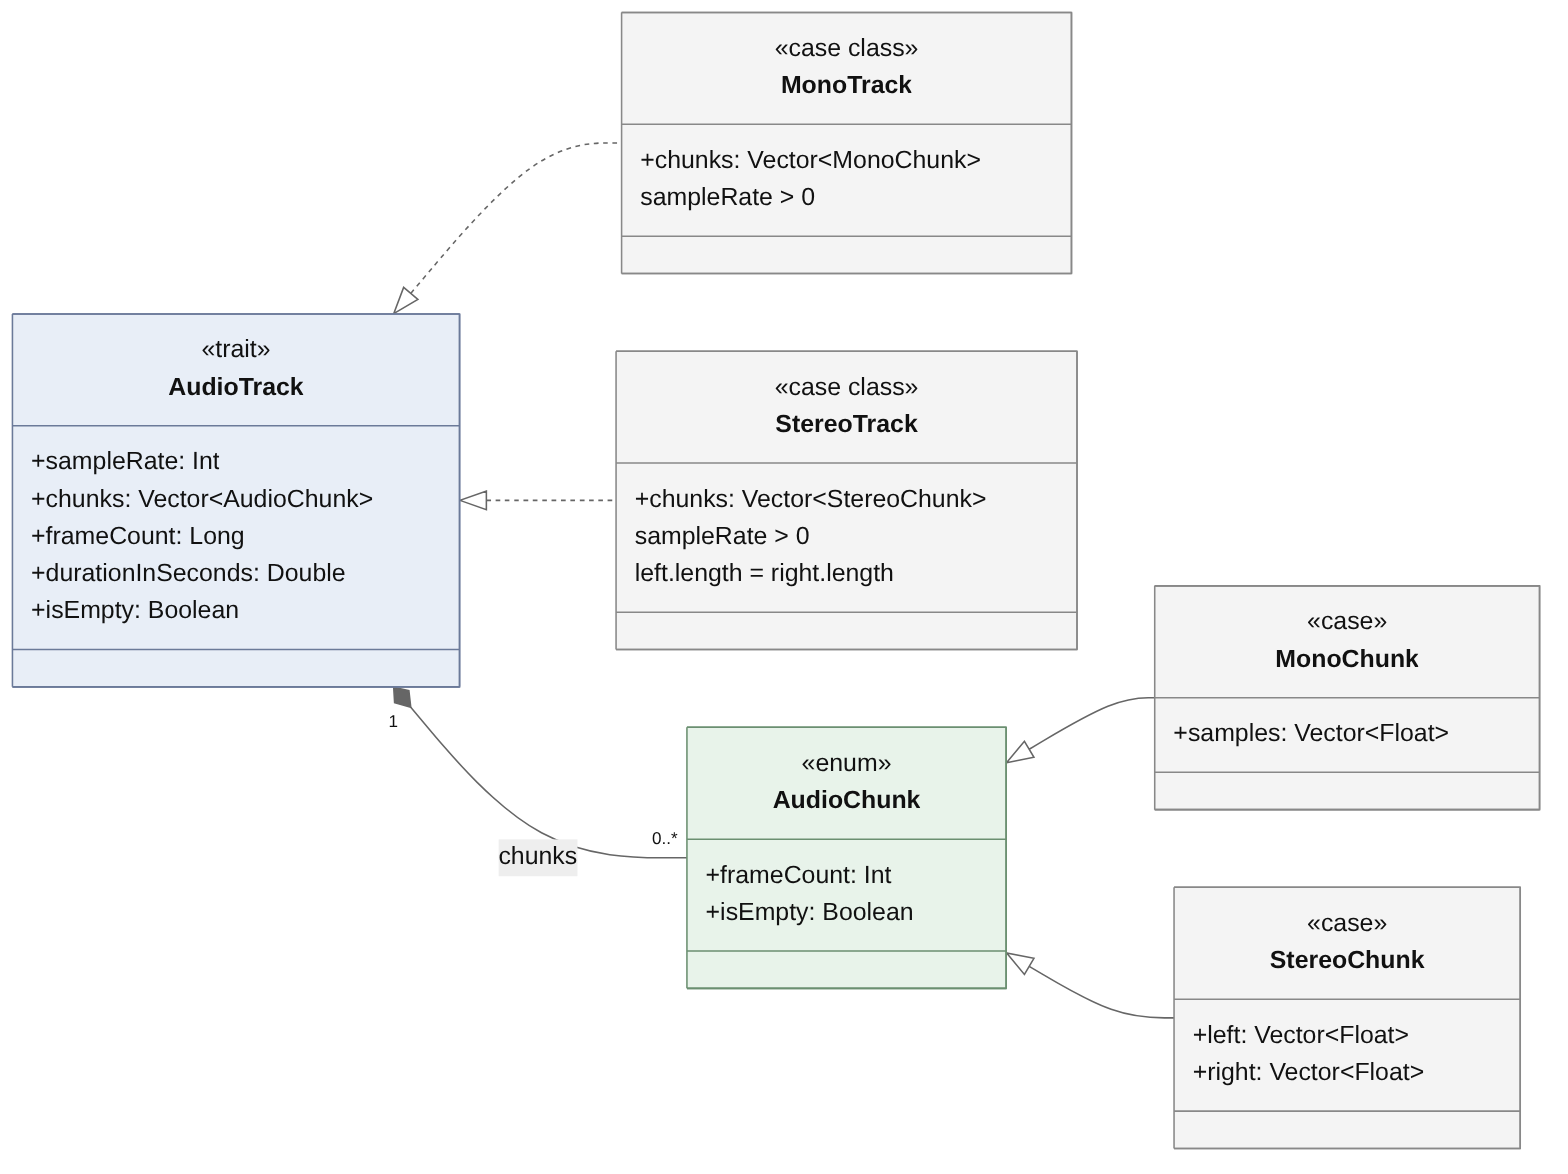
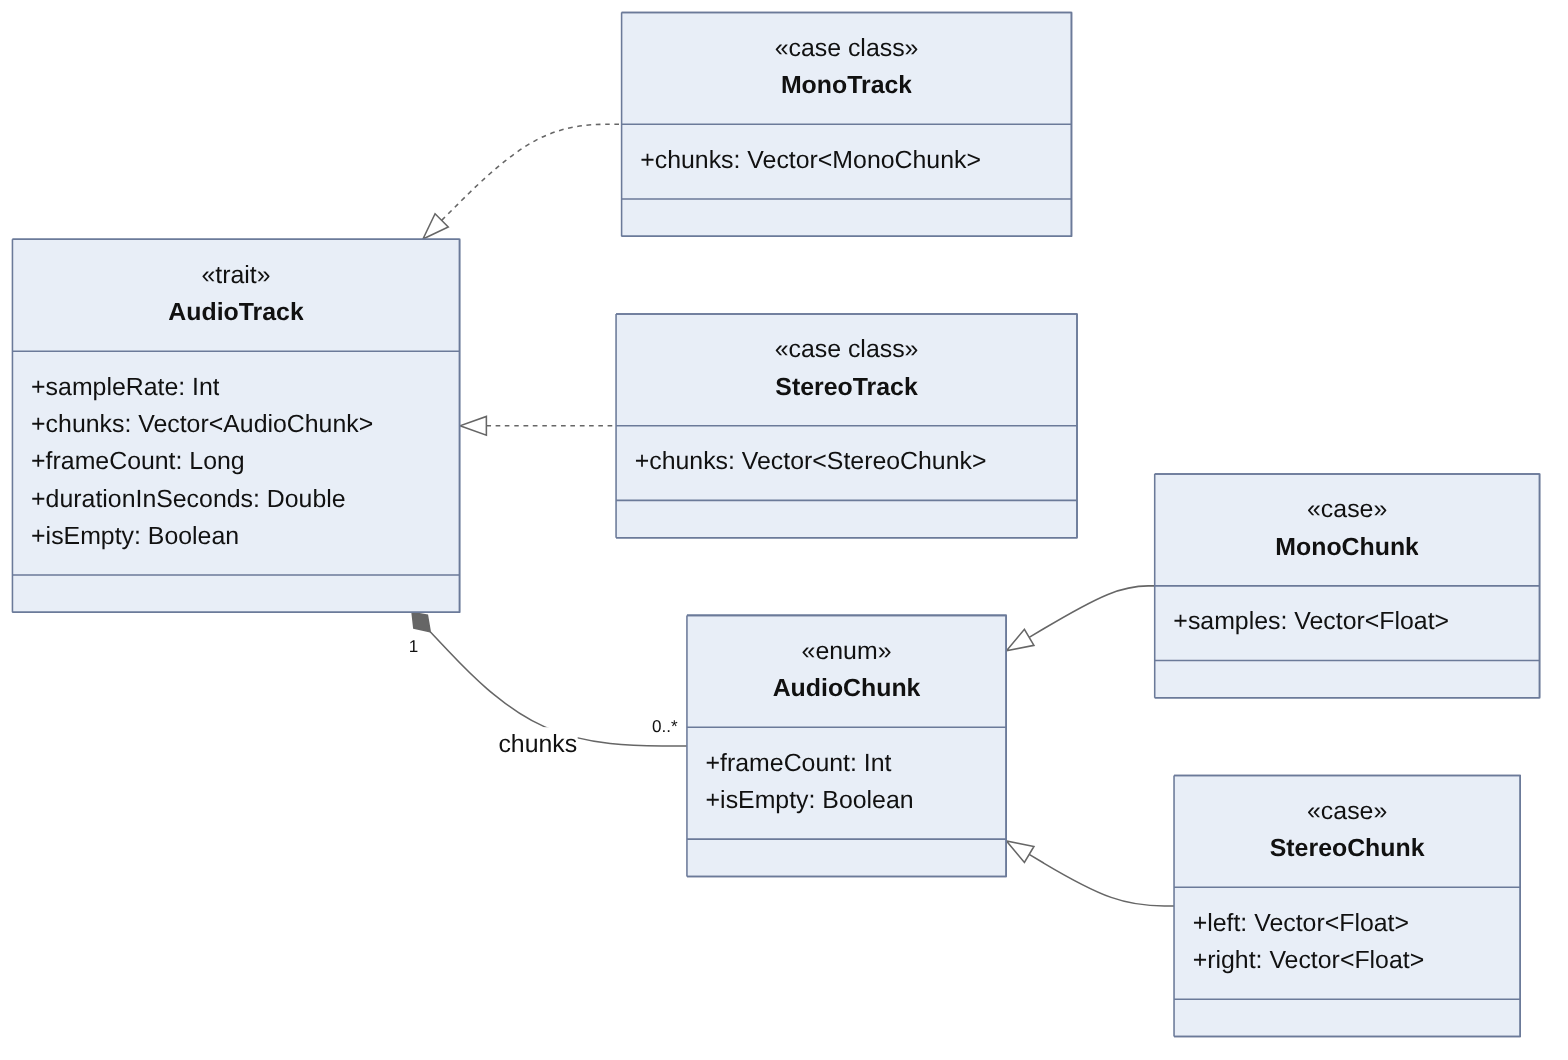
docs: improve domain explanation

diff --git a/doc/05-detailed-design.md b/doc/05-detailed-design.md
@@ -1,10 +1,5 @@
 # Design di Dettaglio
 
-Due scelte di fondo valgono per tutti i componenti:
-
-- **Immutabilità.** Tracce, chunk, stato ed effetti sono valori immutabili; ogni trasformazione produce un nuovo valore.
-- **Errori come valori.** Le operazioni che possono fallire restituiscono un `Either` il cui errore è un'enumerazione (`AudioError`, `AudioLoadError`, `AudioSaveError`). Le eccezioni di Java Sound e del file system sono intercettate ai bordi e trasformate in errori. L'unica eccezione lanciata dal modello è quella delle precondizioni (`require`) nella costruzione delle tracce.
-
 ## Organizzazione dei package
 
 All'interno del package radice `scalasound`, il codice si articola nella seguente struttura:
@@ -17,7 +12,7 @@ All'interno del package radice `scalasound`, il codice si articola nella seguent
   - `model.processing`: gli effetti, i processori audio e i relativi errori.
 - **`controller`**: i tre controller di riproduzione, importazione/esportazione ed effetti.
 - **`view`**:
-  - `view.panels`: i pannelli grafici (riquadro della traccia e pannello degli effetti) con la relativa logica di presentazione e il collegamento ai controller.
+  - `view.panels`: i pannelli grafici (riquadro della traccia, pannello degli effetti e pannello di importazione ed esportazione), ciascuno con la relativa logica di presentazione e il collegamento ai controller.
   - `ScalaFxApp` e `AppDependencies`: costruzione della finestra principale e dipendenze di cui la view ha bisogno.
 - `AppSetup` (composizione dei componenti) e `Main` (avvio dell'applicazione).
 
@@ -25,23 +20,29 @@ All'interno del package radice `scalasound`, il codice si articola nella seguent
 
 ### Dominio
 
-Il dominio è stato progettato dall'intero gruppo. L'audio è rappresentato da due gerarchie di tipi algebrici, che rendono impossibili gli stati non validi.
+Il dominio è stato progettato dall'intero gruppo ed è evoluto nel tempo. L'audio è rappresentato da due gerarchie, che rendono impossibili gli stati non validi. I tipi sono definiti nel file `AudioADT` (package `model.domain`).
 
 - `AudioChunk` è un'enumerazione con due casi: `MonoChunk`, con un solo vettore di campioni, e `StereoChunk`, con i canali sinistro e destro separati. È l'unità alla base dell'elaborazione, della riproduzione e delle operazioni di importazione ed esportazione.
-- `AudioTrack` è il trait che rappresenta un brano: espone la frequenza di campionamento e il vettore di chunk che lo compone. Ha due implementazioni, `MonoTrack` (composta da chunk mono) e `StereoTrack` (composta da chunk stereo), che verificano le precondizioni alla costruzione con `require`.
+- `AudioTrack` è il trait che rappresenta una traccia: espone la frequenza di campionamento e la sequenza ordinata di chunk che lo compone. Ha due implementazioni: `MonoTrack`, composta solo da `MonoChunk`, e `StereoTrack`, composta solo da `StereoChunk` in cui i canali sinistro e destro hanno la stessa lunghezza. In entrambe la frequenza di campionamento deve essere positiva.
+
+Sia `AudioChunk` sia `AudioTrack` espongono `frameCount`, il numero di frame contenuti. Un frame raccoglie i campioni di tutti i canali relativi allo stesso istante.
+
+\newpage
 
 ![Gerarchia di tracce e chunk](doc/img/05-detailed-design/dominio.png){ width=80% }
 
 Scelte di design:
 
-- la traccia è divisa in chunk di dimensione fissa (1024 frame quando importata), così l'audio viene elaborato e riprodotto un blocco alla volta, solo quando necessario;
-- i campioni sono `Float` normalizzati in [-1, 1): tutti gli effetti lavorano su un'unica scala, indipendente dalla profondità di bit del file di provenienza, e il calcolo in virgola mobile non ha i problemi di overflow degli interi a 16 bit (un guadagno potrebbe superare il valore massimo). Il `Float` inoltre occupa la metà del `Double`;
-- `chunks` e i campioni (`samples`, `left`, `right`) sono contenuti in `Vector`, la sequenza immutabile di Scala con accesso per indice efficiente, che facilita l'operazione di seek. In questo modo portare la testina in un punto qualsiasi della traccia non richiede di percorrere i chunk precedenti, come invece accadrebbe con una `List`.
+- la traccia composta da una sequenza di chunk di dimensione fissa (1024 frame quando importata). Questo permette di elaborare e riprodurre il flusso audio un blocco alla volta, solo quando necessario;
+- i campioni sono `Float` normalizzati in [-1, 1): tutti gli effetti lavorano su un'unica scala, indipendentemente dalla risoluzione in bit del file di provenienza, e il calcolo in virgola mobile non ha  problemi di overflow con gli interi a 16 bit (un guadagno potrebbe superare il valore massimo). Il `Float` inoltre occupa metà della memoria rispetto al `Double`;
+- `chunks` e i campioni (`samples`, `left`, `right`) sono contenuti in `Vector`, la sequenza immutabile di Scala con accesso per indice efficiente, che facilita l'operazione di seek. In questo modo spostare lo stato di avanzamento in un punto qualsiasi della traccia non richiede di percorrere i chunk precedenti, come invece accadrebbe con una `List`.
 
 Casi limite:
 
-- una traccia stereo i cui canali hanno lunghezze diverse, o una frequenza non positiva, vengono rifiutate alla costruzione;
+- una traccia con frequenza di campionamento non positiva, o una traccia stereo con canali di lunghezza diversa, viene rifiutata alla costruzione;
 - l'ultimo chunk di una traccia può contenere meno frame degli altri.
+
+\newpage
 
 ### Stato e comandi
 
@@ -51,12 +52,12 @@ Lo stato globale è contenuto nella `case class` immutabile `AppState`, composta
 |----------------|------------------------|--------------------------------------------|
 | `playbackState` | `PlaybackState` | fase della riproduzione: `Stopped`, `Playing` o `Paused` |
 | `track` | `Option[AudioTrack]` | traccia caricata, se presente |
-| `chunkIndex` | `Int` | posizione della testina, come indice del chunk corrente |
+| `chunkIndex` | `Int` | stato di avanzamento della riproduzione, come indice del chunk corrente |
 | `effects` | `List[AudioEffect]` | effetti attivi, al più uno per tipo |
 | `importState` | `ImportState` | ciclo dell'importazione: `Idle`, `Importing`, `Imported(track)` o `Failed(error)` |
 | `exportState` | `ExportState` | ciclo dell'esportazione: `Idle`, `Exporting`, `Exported` o `Failed(error)` |
 
-Lo stato iniziale non ha traccia né effetti, ha la riproduzione `Stopped`, la testina a zero e importazione ed esportazione in stato `Idle`. Ogni modifica è espressa da un `Command` (`Play`, `Pause`, `Stop`, `NextChunk`, `SeekToIndex`, `AddEffect`, `RemoveAll`, `UpdateImport`, `UpdateExport`) e applicata dalla funzione `AppState.handle`, che restituisce un nuovo `AppState` senza alterare il precedente.
+Lo stato iniziale non ha traccia né effetti, ha la riproduzione `Stopped`, lo stato di avanzamento a zero e importazione ed esportazione in stato `Idle`. Ogni modifica è espressa da un `Command` (`Play`, `Pause`, `Stop`, `NextChunk`, `SeekToIndex`, `AddEffect`, `RemoveAll`, `UpdateImport`, `UpdateExport`) e applicata dalla funzione `AppState.handle`, che restituisce un nuovo `AppState` senza alterare il precedente.
 
 ![Stati della riproduzione audio](doc/img/05-detailed-design/stati-riproduzione.png){ width=70% }
 
@@ -74,7 +75,7 @@ Importazione ed esportazione seguono lo stesso ciclo, rappresentato da semplici 
 
 ![Stati di importazione ed esportazione](doc/img/05-detailed-design/stati-import-export.png){ width=95% }
 
-Scelte di design: 
+Scelte di design:
 
 - poiché `handle` non ha effetti collaterali, un comando non applicabile restituisce lo stato invariato invece di un errore.
 
@@ -148,11 +149,11 @@ Casi limite:
 - un chunk o una traccia vuoti sono rifiutati con un errore;
 - un effetto sconosciuto (non presente in `AudioEffectType`) è accettato e applicato per ultimo;
 - se un chunk elaborato diventa stereo, l'intera traccia lo diventa;
-- l'eco è l'unico componente con stato mutabile: tiene un buffer circolare per canale, di dimensione pari al ritardo in campioni. Sostituire l'effetto (per esempio muovendo il cursore) crea un nuovo buffer, quindi la coda dell'eco precedente si interrompe.
+- l'eco è l'unico effetto con stato mutabile: tiene un buffer circolare per canale, di dimensione pari al ritardo in campioni. Sostituire l'effetto (per esempio muovendo il cursore) crea un nuovo buffer, quindi la coda dell'eco precedente si interrompe.
 
 ### Motore di riproduzione
 
-`AudioPlayer` non ha uno stato proprio: osserva lo store e agisce di conseguenza. Riceve alla creazione, un `AudioProcessor` che applica gli effetti a ogni chunk e un `AudioOutput` che lo porta in uscita, e conosce solo i loro contratti. Perciò `SimpleAudioProcessor` e `AudioProcessorWithRules`, cosi come `AudioOutput.console` e `AudioOutput.speakers`, sono intercambiabili senza modificare il player. Lo store gli viene fornito quando viene avviato, con `run(store)`.
+`AudioPlayer` non ha uno stato proprio: osserva lo store e agisce di conseguenza. Riceve alla creazione un `AudioProcessor` che applica gli effetti a ogni chunk e un `AudioOutput` che lo porta in uscita, e conosce solo i loro contratti. Perciò `SimpleAudioProcessor` e `AudioProcessorWithRules`, così come `AudioOutput.console` e `AudioOutput.speakers`, sono intercambiabili senza modificare il player. Lo store gli viene fornito quando viene avviato, con `run(store)`.
 
 ![Dipendenze di AudioPlayer](doc/img/05-detailed-design/dipendenze-player.png){ width=95% }
 
@@ -162,18 +163,20 @@ Casi limite:
 
 La riproduzione procede un chunk alla volta: il player non elabora la traccia in anticipo, ma prepara ogni chunk subito prima di mandarlo in uscita. Per questo gli effetti e la posizione possono cambiare mentre la traccia suona, e il risultato si sente dal chunk successivo. Il vincolo è che l'elaborazione di un chunk resti più breve della sua durata (circa 23 ms per 1024 frame a 44100 Hz), altrimenti l'audio si interrompe; la risposta a una modifica non è comunque istantanea, perché una piccola quantità di audio è già stata consegnata all'uscita.
 
-`AudioOutput` ha un solo metodo, `write(chunk, sampleRate)`. `AudioOutput.console` stampa i metadati del chunk in console, mentre `AudioOutput.speakers` produce il suono attraverso la libreria Java Sound.
+`AudioOutput` ha un solo metodo, `write(chunk, sampleRate)`. `AudioOutput.console` stampa i metadati del chunk in console, mentre `AudioOutput.speakers` produce il suono attraverso la libreria Java Sound: converte i campioni in PCM a 16 bit little-endian e li scrive con `IO.blocking` su una linea audio con un buffer di circa 200 ms, che resta aperta finché non cambiano frequenza di campionamento o numero di canali. L'estensione `paced` aggiunge, dopo la scrittura, un'attesa pari alla durata del chunk, per dare il ritmo reale a un output che non lo impone, come la console.
 
 Scelte di design:
 
+- il player è modellato come un flusso (`Stream` di FS2) perché la riproduzione è una sequenza di chunk nel tempo: si descrive il ciclo "elabora, riproduci, avanza" invece di gestire a mano indici e attese. Il flusso dello stato notifica solo quando qualcosa cambia, quindi non servono controlli periodici, e con `changesBy` e `switchMap` ogni cambio di stato o di posizione interrompe il flusso in corso e ne fa partire uno nuovo;
 - `Pause`, `Stop` e `SeekToIndex` interrompono l'elaborazione del chunk in corso e fanno ripartire il ciclo dal nuovo stato;
 - il ritmo della riproduzione deriva da `AudioOutput.write`, che termina solo quando l'output può accettare il chunk, e non da un timer. Il player resta quindi poco avanti rispetto a quanto si sente.
 
 Casi limite:
 
-- se `AudioProcessor.apply` restituisce un `Left` con un `AudioError`, l'errore viene stampato in console e si riproduce il chunk originale, poichè un effetto malfunzionante non deve rendere silente riproduzione;
+- se `AudioProcessor.apply` restituisce un `Left` con un `AudioError`, l'errore viene stampato in console e si riproduce il chunk originale, poiché un effetto malfunzionante non deve rendere silente la riproduzione;
 - se l'output fallisce con un'eccezione, la riproduzione passa a `Stopped` e il player resta attivo, pronto a ripartire;
-- alla fine della traccia il player stesso invia `Stop`, che riporta `chunkIndex` a zero.
+- alla fine della traccia il player stesso invia `Stop`, che riporta `chunkIndex` a zero;
+- la linea audio di `AudioOutput.speakers` viene chiusa solo quando il formato cambia: alla chiusura dell'applicazione non è rilasciata esplicitamente.
 
 ### Lettura e scrittura dei file
 
@@ -187,8 +190,7 @@ Scelte di design:
 Casi limite:
 
 - la scrittura rifiuta `NaN` e infiniti, una frequenza di campionamento oltre il limite del formato e una traccia che supera la dimensione massima del file;
-- se manca l'estensione `.wav`, viene aggiunta; un file esistente è sovrascritto;
-- un file di un formato diverso da WAV PCM a 16 bit è rifiutato con un errore, senza modificare lo stato.
+- un file di un formato diverso da WAV PCM a 16 bit è rifiutato con un errore, senza sostituire la traccia corrente.
 
 ## Controller
 
@@ -196,18 +198,24 @@ I controller espongono alla view le operazioni dell'utente e le traducono in com
 
 - `PlaybackController` (play, pause, stop, seek) non contiene logica di stato: invia il comando corrispondente. Il seek converte i secondi nell'indice del chunk che contiene quel punto, riportando i valori fuori traccia al primo o all'ultimo chunk.
 - `EffectsController` invia `AddEffect` e `RemoveAll`.
-- `LoadSaveController` è l'unico che gestisce operazioni lente. `load` e `save` ritornano subito e lavorano in background sotto un `Supervisor`, con la lettura, oppure l'elaborazione seguita dalla scrittura, eseguite in `IO.blocking`. In esportazione il controller legge dallo stato la traccia e gli effetti attivi, ne ottiene la versione elaborata con l'`AudioProcessor` e la passa all'`AudioWriter`.
+- `LoadSaveController` è l'unico che gestisce operazioni lente. `load` e `save` restituiscono un `IO` che avvia l'operazione in background sotto un `Supervisor` e termina subito; la lettura, oppure l'elaborazione seguita dalla scrittura, è eseguita in `IO.blocking`. In esportazione il controller legge dallo stato la traccia e gli effetti attivi, ne ottiene la versione elaborata con l'`AudioProcessor` e la passa all'`AudioWriter`.
 
 ![Sequenza dell'importazione](doc/img/05-detailed-design/sequenza-importazione.png){ width=100% }
+
+L'esportazione segue lo stesso schema con tre differenze: legge dallo store la traccia e gli effetti attivi al momento della richiesta, fa elaborare la traccia dall'`AudioProcessor` prima di passarla all'`AudioWriter`, e non parte se un'importazione è in corso.
 
 Scelte di design per `LoadSaveController`:
 
 - un salvataggio lavora su una copia dell'`AppState` presa alla richiesta: il file contiene la traccia e gli effetti presenti in quel momento, anche se nel frattempo ne viene caricata un'altra o gli effetti cambiano;
 - se non ci sono effetti attivi l'elaborazione restituisce la traccia invariata, che viene scritta così com'è;
 - gli errori restituiti da reader, processore e writer e le eccezioni impreviste finiscono tutti in `Failed`, quindi la view riceve sempre un esito;
+- una richiesta di importazione o di esportazione è ignorata se un'operazione dello stesso tipo è già in corso, e un salvataggio è ignorato anche durante un'importazione; il controllo si basa su un `Ref` per ciascun tipo di operazione;
 - l'utente riporta lo stato a `Idle` con `acknowledgeImport` e `acknowledgeExport`, che hanno effetto solo se l'operazione è conclusa.
 
-Casi limite: un salvataggio senza traccia caricata produce `Failed(NoTrackLoaded)`.
+Casi limite:
+
+- un salvataggio senza traccia caricata produce `Failed(NoTrackLoaded)`;
+- se manca l'estensione `.wav`, viene aggiunta; un file esistente è sovrascritto.
 
 ## View
 
@@ -217,7 +225,7 @@ La view non modifica lo stato: ascolta gli stream dello store e invia richieste 
 |--------------------|--------------------------------|--------------------------|
 | Riproduzione | `TrackBox` | `TrackBoxLogic` |
 | Effetti | `EffectsPanelContainer` | `EffectsLogic` |
-| Importazione ed esportazione | `TitlePane`, `LoadSaveControls` | `LoadSaveObserver` |
+| Importazione ed esportazione | `TitlePane` | `LoadSaveLogic` |
 
 La finestra è un `BorderPane` a tre zone:
 
@@ -228,8 +236,19 @@ La finestra è un `BorderPane` a tre zone:
 Il comportamento di ogni pannello è nella sua logica:
 
 - `TrackBoxLogic` collega i pulsanti e la timeline ai controller e aggiorna posizione ed etichette in base allo stato;
-- `EffectsLogic` collega i cursori ai controller e invia l'effetto corrispondente;
-- `LoadSaveObserver` si iscrive agli stati di importazione ed esportazione e aggiorna i controlli (`LoadSaveControls`), compresi i messaggi d'errore per l'utente, definiti in un unico punto (`ErrorMessages`).
+- `EffectsLogic` collega i cursori ai controller, attraverso `EffectsControllerWrapper`, e invia l'effetto corrispondente;
+- `LoadSaveLogic` collega i pulsanti Import ed Export di `TitlePane` ai controller, con i selettori di file, e si iscrive agli stati di importazione ed esportazione: aggiorna l'etichetta e i pulsanti di `TitlePane` e mostra un avviso di riuscita o di errore, con i messaggi definiti in un unico punto (`ErrorMessages`); dopo l'avviso conferma l'esito al controller con `acknowledgeImport` o `acknowledgeExport`.
+
+Scelte di design:
+
+- `EffectsControllerWrapper` nasconde l'esecuzione dell'`IO` dei controller degli effetti (`unsafeRunAndForget`), così `EffectsLogic` chiama semplici metodi;
+- `LoadSaveLogic` riceve per iniezione le funzioni che eseguono gli aggiornamenti sul thread JavaFX (`runOnGUIThread`) e mostrano gli avvisi (`showAlert`): così la sua logica si può verificare senza avviare l'interfaccia;
+- i widget non conoscono i controller né lo store: tutto il collegamento è nelle classi di logica.
+
+Casi limite:
+
+- `Echo` e `Autopan` sono creati dalla view senza la frequenza di campionamento della traccia, quindi usano il valore predefinito delle factory (44100 Hz);
+- se l'utente annulla un selettore di file non viene inviata nessuna richiesta.
 
 ## Aspetti trasversali
 
@@ -247,21 +266,21 @@ I componenti si conoscono solo attraverso i contratti seguenti: chi li usa non d
 | `AppStateStore` | `current: IO[AppState]`; `dispatch(command: Command): IO[AppState]`; `changes: Stream[IO, AppState]`; `playbackChanges`, `trackChanges`, `importStateChanges`, `exportStateChanges` | i flussi derivati emettono solo quando la parte di stato cambia davvero |
 | `PlaybackController` | `play`, `pause`, `stop`: `IO[Unit]`; `seek(positionSeconds: Double): IO[Unit]` | il posizionamento è in secondi |
 | `EffectsController` | `addEffect(effect: AudioEffect): IO[Unit]`; `removeAll(): IO[Unit]` | |
-| `LoadSaveController` | `load(path: Path): Unit`; `save(path: Path): Unit`; `acknowledgeImport: Unit`; `acknowledgeExport: Unit` | lavorano in background e ritornano subito |
+| `LoadSaveController` | `load(path: Path)`, `save(path: Path)`, `acknowledgeImport`, `acknowledgeExport`: `IO[Unit]` | `load` e `save` avviano l'operazione in background e terminano subito |
 
 ### Concorrenza e thread
 
 L'applicazione usa tre contesti di esecuzione, che comunicano soltanto attraverso `AppStateStore`:
 
-- il **thread JavaFX** esegue la view: i gestori dei controlli (`TrackBoxLogic`, `EffectsLogic`) partono da qui, e gli aggiornamenti dei widget vi devono tornare con `Platform.runLater`;
-- le **fibre di Cats Effect**, sul pool di calcolo, eseguono i metodi in `PlaybackController`, `EffectsController` e `LoadSaveController`, il ciclo di `StreamingAudioPlayer` e gli osservatori della view (`TrackBoxLogic.observe`, `LoadSaveObserver.observe`), che si iscrivono ai flussi dello store;
+- il **thread JavaFX** esegue la view: i gestori dei controlli (`TrackBoxLogic`, `EffectsLogic`, `LoadSaveLogic`) partono da qui, e gli aggiornamenti dei widget vi devono tornare con `Platform.runLater`;
+- le **fibre di Cats Effect**, sul pool di calcolo, eseguono i metodi in `PlaybackController`, `EffectsController` e `LoadSaveController`, il ciclo di `StreamingAudioPlayer` e gli osservatori della view (`TrackBoxLogic.observe`, `LoadSaveLogic.observe`), che si iscrivono ai flussi dello store;
 - il **pool dei compiti bloccanti** esegue le operazioni che attendono il sistema, con `IO.blocking`: `WavAudioReader` e `WavAudioWriter` per i file e `SpeakerAudioOutput` per la scrittura sulla linea audio.
 
 ![Contesti di esecuzione e passaggi tra di essi](doc/img/05-detailed-design/contesti-esecuzione.png){ width=80% }
 
 Ne derivano tre regole:
 
-- la view avvia i controller con `unsafeRunAndForget`, senza attenderne il risultato, così l'interfaccia non si blocca durante le operazioni lunghe;
+- la view avvia i controller con `unsafeRunAndForget` (direttamente nelle classi di logica, oppure attraverso `EffectsControllerWrapper`), senza attenderne il risultato, così l'interfaccia non si blocca durante le operazioni lunghe;
 - le operazioni bloccanti non occupano mai il pool di calcolo, quindi il player e gli altri flussi continuano a girare;
 - lo stato condiviso è uno solo, `AppStateStore`, che serializza le modifiche in modo atomico.
 
